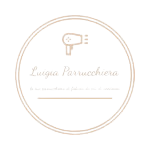
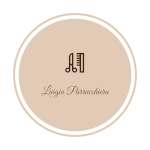
new symbol

diff --git a/css/styles.css b/css/styles.css
@@ -13,7 +13,7 @@ body {
 }
 
 #logo-img {
-	/*background: url('../images/symbol-150.jpeg') no-repeat;*/
+	background: url('../images/symbol-150.png') no-repeat;
 	width: 150px;
 	height: 150px;
 	margin: 10px 15px 10px 0px;
@@ -131,10 +131,39 @@ body {
 /** END HOMEPAGE **/
 
 /** SERVICES PAGE **/
-.background-image {
+.img-responsive {
     opacity: 0.3;
     margin: auto;
 }
+
+#main-content {
+    postion: relative;
+}
+
+.container .content {
+    position: absolute;
+    color: #fff;
+    width: 40%; /* Full width */
+    padding: 20px; /* Some padding */
+    background-color: #44220D;
+    opacity: 0.6;
+    display: grid;
+    grid-template-columns: 120px 120px 120px;
+    align-items: start;
+    justify-content: space-between;
+    bottom: 0;
+}
+
+
+.container .content .men {
+    float: right;
+    top: 100px;
+}
+.container .content .women {
+    float: left;
+    bottom:100px
+}
+
 
 /** END SERVICES PAGE **/
 
@@ -184,7 +213,7 @@ body {
 @media (min-width: 992px) and (max-width: 1199px) {
   /* Header */
   #logo-img {
-    background: url('../images/symbol-100.jpeg') no-repeat;
+    background: url('../images/symbol-100.png') no-repeat;
     width: 100px;
     height: 100px;
     margin: 5px 5px 5px 0;

diff --git a/services.html b/services.html
@@ -62,7 +62,15 @@
 	</header>
 
   <div id="main-content" class="container">
-    <div class="background-image img-responsive"><img src="images/logo_transparent.png"></div>
+    <img src="images/logo_transparent.png" class="img-responsive">
+    <div class="content men col-sm-6">
+      <h1>Uomo</h1><br>
+      <p>Lorem ipsum..</p>
+    </div>
+    <div class="content women col-sm-6">
+      <h1>Donna</h1><br>
+      <p>Lorem ipsum..</p>
+    </div>
   </div><!-- main content -->
 
   <footer class="panel-footer">

diff --git a/index.html b/index.html
@@ -19,9 +19,7 @@
       <div class="container">
         <div class="navbar-header">
           <a href="index.html" class="pull-left visible-md visible-lg">
-            <div id="logo-img">
-              <img src="images/symbol-150.png">
-            </div>
+            <div id="logo-img"></div>
           </a>
         	<div class="navbar-brand">
         		<a href="index.html"><h1>Luigia Parrucchiera</h1></a>
